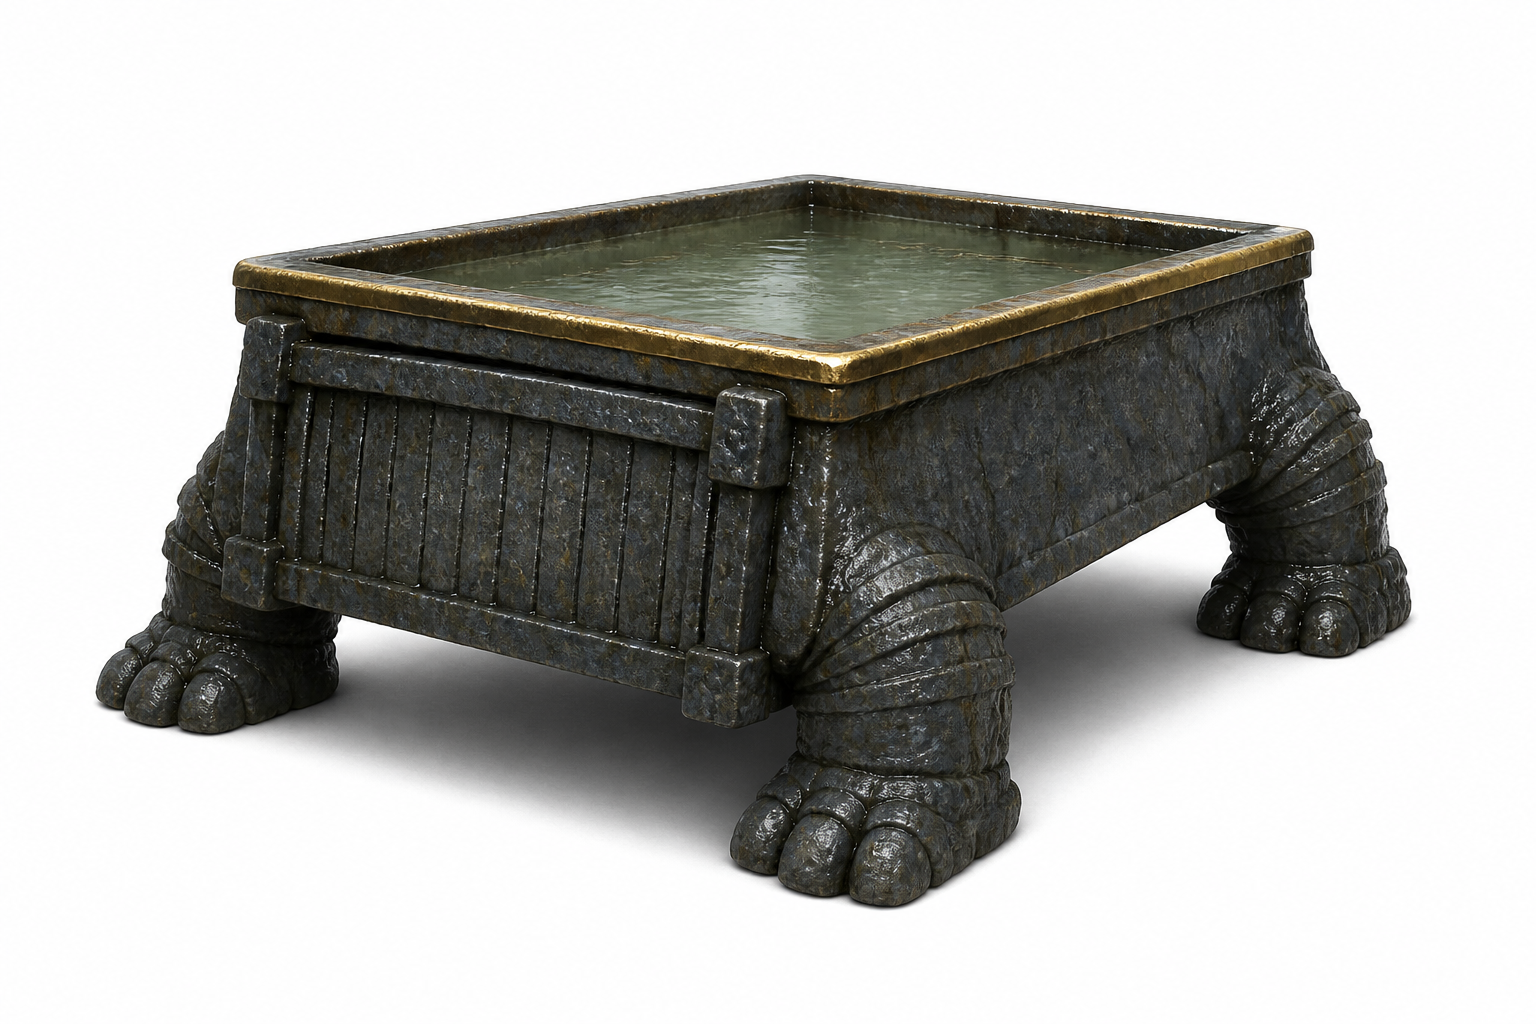
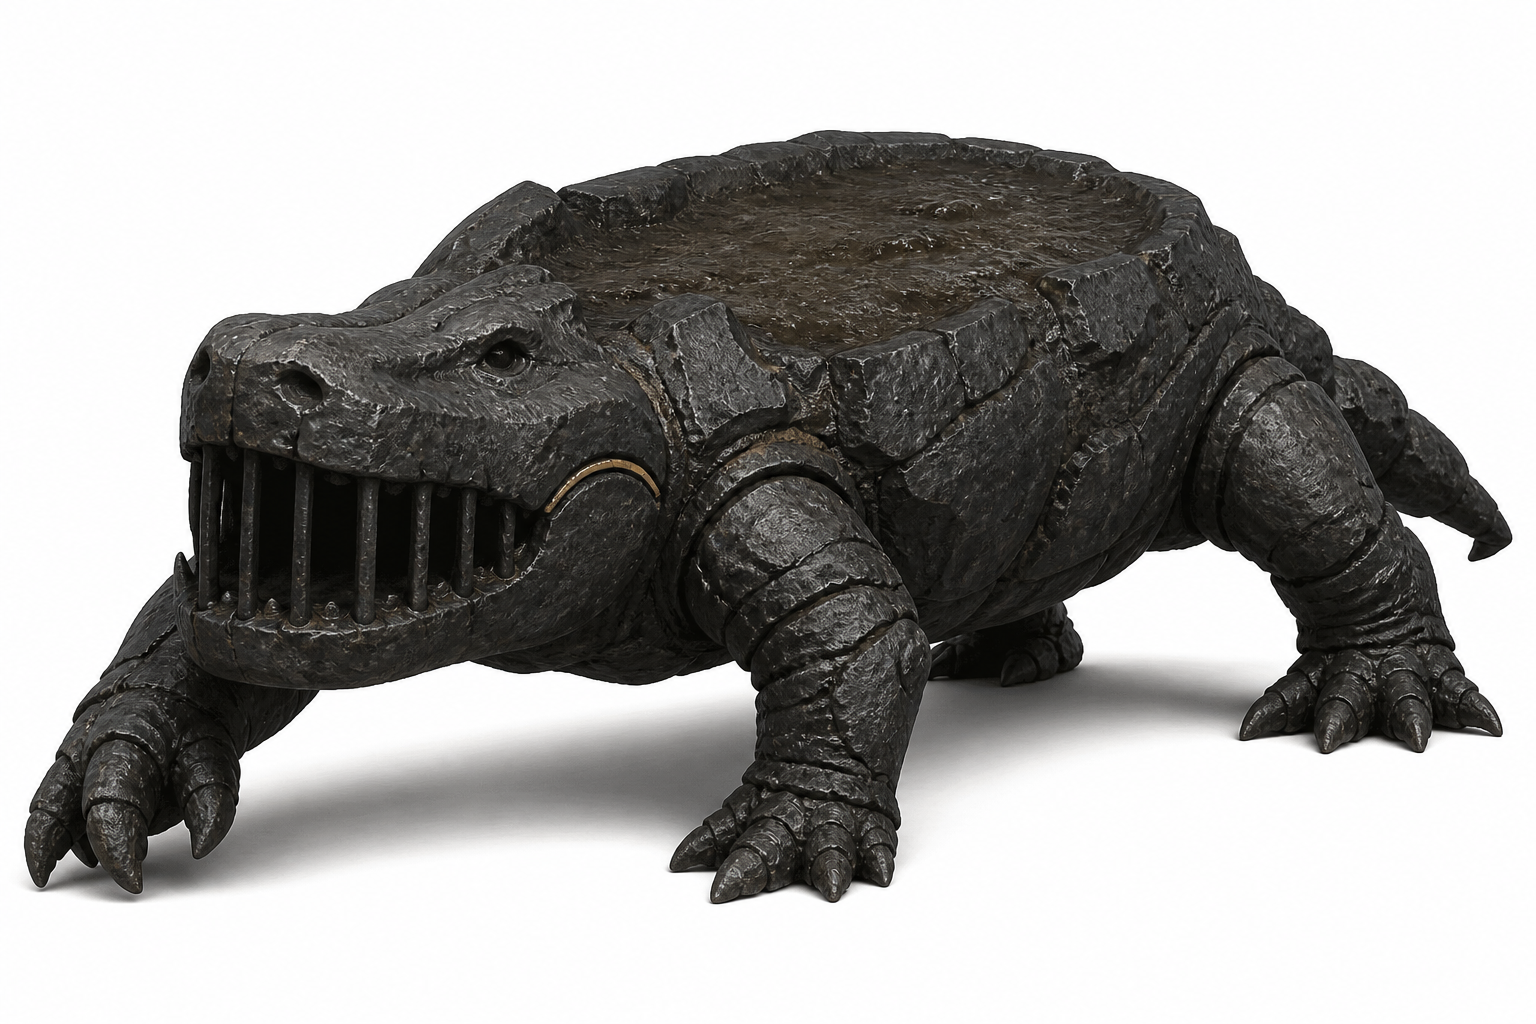
job-015: 04湿地のみ再作（テーブル構図を生き物へ・他4体無改変）

diff --git a/deliverables/job-015/notes.md b/deliverables/job-015/notes.md
@@ -1,62 +1,57 @@
-# job-015 notes — 地域中ボス5体（姫ではない）0827 差し戻し再納品
+# job-015 notes — 地域中ボス5体（姫ではない）0829 04のみ再作
 
-08-27 状態整理コメントを受け、差し戻し4体を 03 の作り方（低いor役割一目のシルエット・中立白背景・装飾抑制）で再作。03 は検収合格のため無改変。01/02/04/05 のみ作り直し。
+08-29 検証: 01/02/03/05 合格、04のみ差し戻し（家具にしか見えない）。**04の1枚だけ再作**。01/02/03/05 の PNG は無改変。
 
-ミラーの `docs/prompt_grammar_enemyboss` は GitHub `hp-game-share` HEAD `3fd5cf0`（0821）に無い。コメントの「相当」（白背景・装飾抑制・役割型シルエット）と既存差し戻し指摘で進めた。
-
-## 01 草原 門番型 — 歩く門（`01-grassland-gatekeeper.png`）再作
+## 01 草原 門番型 — 歩く門（`01-grassland-gatekeeper.png`）合格・無改変
 
 - 役割: 峠道そのものを塞ぐ。脚の間が通路に見え、通ろうとした瞬間に閉じる門番。
 - 攻撃1: 門柱脚を開脚したまま踏み込み、道幅いっぱいに地響きを走らせて転倒させる。
 - 攻撃2: 上体のリンテルを前に倒して「閉じる」。腕ではなく門扉として通路を封鎖する。
 - シルエット狙い: 正面から見てΠ型。脚の間が通行可能な隙間。
-- 今回の形: 四脚の石門。リンテルにアンティークゴールドの細い象嵌1本のみ。白スタジオ。都市・道路・人影なし。二本柱の静物ポータルではなく、四脚で歩ける門。
+- 形: 四脚の石門。リンテルにアンティークゴールドの細い象嵌1本のみ。
 
-## 02 雪原 塔守型 — 歩く物見塔（`02-snowfield-tower-warden.png`）再作
+## 02 雪原 塔守型 — 歩く物見塔（`02-snowfield-tower-warden.png`）合格・無改変
 
 - 役割: 雪原の物見を一人で歩く。遠方の侵入を先に捉え、塔に報せる前に食い止める。
 - 攻撃1: 頭頂下のルビーvisorslitから氷杭を斉射（塔のスリット射撃の身体化）。
 - 攻撃2: 胴を軸に一回転し、凍気の輪で足元の雪をガラス化して移動を封じる。
 - シルエット狙い: 縦長。肩がなく「塔が歩いている」。
-- 今回の形: 胸壁付きの石塔が短い四脚で立つ。ルビー visor は赤。クレネレーション直下に金帯1本。盾・紋章なし。白スタジオ。
+- 形: 胸壁付きの石塔が短い四脚で立つ。ルビー visor は赤。クレネレーション直下に金帯1本。
 
-## 03 砂漠 隊商喰い型 — 砂舟の顎（`03-desert-caravan-eater.png`）無改変（検収合格）
+## 03 砂漠 隊商喰い型 — 砂舟の顎（`03-desert-caravan-eater.png`）合格・無改変
 
 - 役割: 砂漠の隊商路に潜み、荷と護衛ごとすくい飲む伏兵。
 - 攻撃1: 甲羅状の砂板を前に滑らせ、砂を噛んで前方へ吐き出す埋没波。
 - 攻撃2: 頭部を覆うスクープ状の甲を地面に押し、隊商を船体の顎ですくい込む。
 - シルエット狙い: 低い横長。背は砂丘、頭は荷をすくう船首。四脚で「歩く砂の舟」。
 
-## 04 湿地 沈殿型 — 沈砂池の躯（`04-wetland-sediment.png`）再作
+## 04 湿地 沈殿型 — 沈砂の獣（`04-wetland-sediment.png`）0829 再作
 
 - 役割: 湿地の水路を澱ませ、足場を沈めて獲物を沈殿槽へ落とす。
-- 攻撃1: 周囲の地面を軟化させ、円形の沈下ゾーンを作る（槽の縁が足場）。
-- 攻撃2: 胴の堰板を開き、溜めた泥と水を前方へ噴出して視界と移動を奪う。
-- シルエット狙い: 裾の広い台形。上が槽、下が脚柱。沈殿池が脚で立っている。
-- 今回の形: 浅い石槽が四短脚（獣脚）。槽縁に金リム1本。堰板は胴前の固い板。垂れ苔・浮遊部品なし。白スタジオ。
+- 攻撃1: 周囲の地面を軟化させ、円形の沈下ゾーンを作る（背の槽の縁が足場）。
+- 攻撃2: 口の堰を開き、溜めた泥を前方へ噴出して視界と移動を奪う。
+- シルエット狙い: 低い横長の四脚獣。頭は堰の口、背は沈殿槽。テーブルではなく生き物。
+- 今回の形: 黒鉄の鰐型ゴーレム。口は縦格子の堰（門歯ではなく水門）。脚は肩と腰の四脚で、テーブル四隅ではない。背は泥を湛えた浅い槽。金は顎の蝶番1点のみ。金縁・ガラス水面・垂れ苔・浮遊部品なし。白スタジオ。マットな黒鉄石肌。
 
-## 05 火山 炉心型 — 炉の核（`05-volcano-hearthcore.png`）再作
+## 05 火山 炉心型 — 炉の核（`05-volcano-hearthcore.png`）合格・無改変
 
 - 役割: 火山の熱源そのものが歩いている。炉を守り、近づくものを焼き、鉱滓にする。
 - 攻撃1: 炉口の格子越しに短い熱パルスで正面を焦がす（チャージ後に炉口が赤く点く）。
 - 攻撃2: 脚元へ鉱滓を落とす範囲灼熱。接地した円がしばらく残る。
 - シルエット狙い: 丸く低い樽。頭は炉口、腹は炉室。「歩ける窯の核」。
-- 今回の形: 球寄りの窯が四脚。アクセントは炉口の金環と格子中央のルビー1粒（2箇所）。発光は格子の奥の熱で、傷口ではない。白スタジオ。
+- 形: 球寄りの窯が四脚。アクセントは炉口の金環と、格子**上寄り**のルビー1粒（2箇所）。発光は格子の奥の熱。
+- 実物確認: 前回 notes の「ルビーは格子中央」は誤り。実物は格子上寄り。今回は画像を見てから書いた。
 
 ## 自己チェック（完成定義）
 
 - 5体×1枚+役割・攻撃・シルエット狙いのテキスト: **Yes**
-- 白背景・全身・装飾控えめ: **Yes**（01/02/04/05は白スタジオ。03は合格時の中立背景のまま）
+- 白背景・全身・装飾控えめ: **Yes**（04は白スタジオ・マット黒鉄。他4体は合格時のまま）
 - 正直な申告: **Yes**（次節）
 
 ## 正直な申告
 
-- 08-27 状態整理を受け、01/02/04/05 を GenerateImage（03 を reference）で再作。03 PNG は無改変。
-- `docs/prompt_grammar_enemyboss` は公開ミラーに無いので、コメントの「相当」と既存差し戻し4点で進めた。
-- 01: 都市・道路・車・人影なし。最初の生成は二本柱の静物門だったので捨て、四脚の歩く門にした。
-- 02: 「塔が歩く」を縦塔+短四脚で読ませた。visor は赤ルビー。金帯1本。
-- 04: 垂れ苔・浮遊部品なし。槽+金リム+獣脚。家具カタログ寄りを避けるため一度打ち直し、堰板を口として残した。槽の家具感はまだ残る。
-- 05: 発光は炉格子の奥。傷口に見える開きは避けた。樽より球に寄っている。アクセントは金環+ルビー1。
-- ゴールドは 01リンテル / 02金帯 / 04槽縁 / 05炉口 の一点。支配色にはしていない。
-- ポーズ: 01はΠ門、02は縦塔、04は低い槽、05は丸窯前傾。同じ正面直立のコピーにはしていない。
+- 08-29 差し戻しどおり **04の1枚だけ** GenerateImage。01/02/03/05 PNG は未更新。
+- 04 round1/round2 は家具（水入りトレイテーブル）だった。今回は鰐型の胴に口＝堰を載せ、四隅脚のトレイ構図を捨てた。
+- 残る弱み: 背の泥槽はまだやや直方に近い窪み（曲面の獣背としては弱い）。脚の非対称も「歩く四脚」程度で、極端な不等脚ではない。
+- 05 のルビー位置は実物を見返し、格子上寄りに訂正した。
 - job-002 には手を出していない。main へは push していない。
